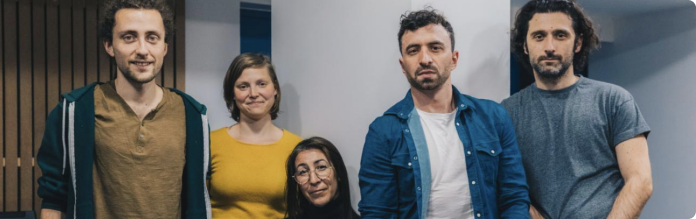
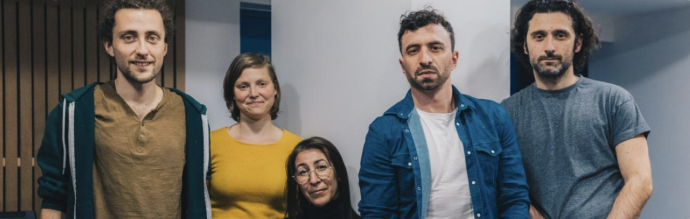
fix: - Changement de l'image - Modification du contraste du titre <h1> de l'accueil - Corrections indentation

diff --git a/pages/description.vue b/pages/description.vue
@@ -1,74 +1,76 @@
 <template>
-    <main class="main_box" role="main">
-        <img class="onde" src="/onde_deco.png" alt="">
-        <div class="description">
-            <img src="/qui_sommes_nous_2.png" alt="">
+  <main class="main_box" role="main">
+    <img class="onde" src="/onde_deco.png" alt="" />
+    <div class="description">
+      <img src="/qui_sommes_nous_2.png" alt="" />
 
-                <h1>Qui sommes-nous ?</h1>
+      <h1>Qui sommes-nous ?</h1>
 
-                <p>
-                    Une équipe française investie dans la création et la production de fictions sonores.<br>
-                    Une association fondée par Aurélien Bernadas, qui s’entoure de nombreuses personnes bénévoles pour accompagner le projet et le faire grandir.
-                </p>
+      <p>
+        Une équipe française investie dans la création et la production de fictions
+        sonores.<br />
+        Une association fondée par Aurélien Bernadas, qui s’entoure de nombreuses
+        personnes bénévoles pour accompagner le projet et le faire grandir.
+      </p>
 
-                <h2 class="blue_outline">Qu’est-ce qui nous fait vibrer ?</h2>
-                <p>
-                    Créer une œuvre accessible à tous, peu importe ses difficultés, son handicap, ses ressources financières…<br>
-                    Faire rêver, raconter des histoires, proposer un moment d’évasion.<br>
-                    Avancer en unissant nos énergies, nos compétences, nos différences, travailler en équipe, et être sur
-                    la même longueur d’onde
-                </p>
+      <h2 class="blue_outline">Qu’est-ce qui nous fait vibrer ?</h2>
+      <p>
+        Créer une œuvre accessible à tous, peu importe ses difficultés, son handicap, ses
+        ressources financières…<br />
+        Faire rêver, raconter des histoires, proposer un moment d’évasion.<br />
+        Avancer en unissant nos énergies, nos compétences, nos différences, travailler en
+        équipe, et être sur la même longueur d’onde
+      </p>
 
-                <h2 class="blue_outline">Pourquoi la fiction sonore ? </h2>
-                <p>
-                    Frequencies a choisi l’audio pour soutenir une idée forte: donner accès à tous aux fictions sonores
-                    et notamment aux personnes atteintes de déficiences visuelles.
-                </p>
+      <h2 class="blue_outline">Pourquoi la fiction sonore ?</h2>
+      <p>
+        Frequencies a choisi l’audio pour soutenir une idée forte: donner accès à tous aux
+        fictions sonores et notamment aux personnes atteintes de déficiences visuelles.
+      </p>
 
-                <h2 class="blue_outline">Une rencontre essentielle</h2>
-                <p>
-                    Aurélien a eu la chance d’entrer en contact avec Arthur, un jeune homme perdant la vue. Il lui dira pour
-                    commencer qu’il n’utilise pas l’audiodescription, ça le sort de l’histoire… Ça manque de vie !<br>
-                    Ils passeront deux ans à échanger sur comment faire une belle réalisation, proposer une histoire au plus
-                    grand nombre et adaptée aux personnes malvoyantes.<br>
-                    <br>
-                    C’est l’origine du projet !
-                </p>
-        </div>
-        <img class="onde" src="/onde_deco.png" alt="">
-    </main>
+      <h2 class="blue_outline">Une rencontre essentielle</h2>
+      <p>
+        Aurélien a eu la chance d’entrer en contact avec Arthur, un jeune homme perdant la
+        vue. Il lui dira pour commencer qu’il n’utilise pas l’audiodescription, ça le sort
+        de l’histoire… Ça manque de vie !<br />
+        Ils passeront deux ans à échanger sur comment faire une belle réalisation,
+        proposer une histoire au plus grand nombre et adaptée aux personnes
+        malvoyantes.<br />
+        <br />
+        C’est l’origine du projet !
+      </p>
+    </div>
+    <img class="onde" src="/onde_deco.png" alt="" />
+  </main>
 </template>
 
 <style scoped>
 .onde {
-    width: 100%;
-    object-fit: contain;
-    margin-bottom: 2vw;
+  width: 100%;
+  object-fit: contain;
+  margin-bottom: 2vw;
 }
 .description {
-    margin-left: 4vw;
-    margin-right: 4vw;
-    text-align: justify;
+  margin-left: 4vw;
+  margin-right: 4vw;
+  text-align: justify;
 }
 
 .description img {
-    float: left;
-    padding-right: 2vw;
+  float: left;
+  padding-right: 2vw;
 }
-
 </style>
 
 <script>
-import { defineComponent } from '@vue/composition-api'
+import { defineComponent } from "@vue/composition-api";
 
 export default defineComponent({
-    setup() {
-        
-    },
-    head() {
-        return {
-            title: "Qui sommes-nous ?"
-        };
-    }
-})
+  setup() {},
+  head() {
+    return {
+      title: "Qui sommes-nous ?",
+    };
+  },
+});
 </script>

diff --git a/components/Intro.vue b/components/Intro.vue
@@ -1,29 +1,41 @@
 <template>
-    <div class="intro">
-        <h1>Frequencies Production</h1>
-        <p>Création de fictions sonores inspirées pour des personnes malvoyantes à destination de tous</p>
-        <ul>
-            <li>
-                <a class="button--white" href="https://docs.google.com/forms/d/e/1FAIpQLSc9T5X5v1Ydinnh5OY0PR2RWsXEp_Ac5zkPIKZrpblGRT2S4g/viewform" target="blank">Devenir bénévole<span aria-label="ouvre un nouvel onglet"></span></a>
-            </li>
-            <li>
-                <a class="button--white">Devenir sponsor</a>
-            </li>
-        </ul>
-    </div>
+  <div class="intro">
+    <h1 class="h1-title">Frequencies Production</h1>
+    <p>
+      Création de fictions sonores inspirées pour des personnes malvoyantes à destination
+      de tous
+    </p>
+    <ul>
+      <li>
+        <a
+          class="button--white"
+          href="https://docs.google.com/forms/d/e/1FAIpQLSc9T5X5v1Ydinnh5OY0PR2RWsXEp_Ac5zkPIKZrpblGRT2S4g/viewform"
+          target="blank"
+          >Devenir bénévole<span aria-label="ouvre un nouvel onglet"></span
+        ></a>
+      </li>
+      <li>
+        <a class="button--white">Devenir sponsor</a>
+      </li>
+    </ul>
+  </div>
 </template>
 
 <style scoped>
 .intro {
-    color: #fff;
-    background-image: url("/image_accueil.png");
-    width: 100%;
-    height: 100%;
-    background-size: cover;
-    background-position: center;
-    background-repeat: no-repeat;
-    padding-top: 32%;
-    padding-bottom: 5%;
-    margin-bottom: 4vw;
+  color: #fff;
+  background-image: url("/image_accueil.png");
+  width: 100%;
+  height: 100%;
+  background-size: cover;
+  background-position: center;
+  background-repeat: no-repeat;
+  padding-top: 32%;
+  padding-bottom: 5%;
+  margin-bottom: 4vw;
+}
+
+.h1-title {
+  background-color: #000000;
 }
 </style>

diff --git a/components/Description.vue b/components/Description.vue
@@ -1,31 +1,34 @@
 <template>
-    <div class="description">
-        <img src="/qui_sommes_nous_1.png" alt="">
-        <h2 class="section_title">Qui sommes-nous ?</h2>
-        <p>
-            Une équipe française investie dans la création et la production de fictions sonores.<br>
-            Une association fondée par Aurélien Bernadas, qui s’entoure de nombreuses personnes bénévoles pour accompagner le projet et le faire grandir.
-        </p>
-    </div>
+  <div class="description">
+    <img src="/qui_sommes_nous_1.png" alt="" />
+    <h2 class="section_title">Qui sommes-nous ?</h2>
+    <p>
+      Une équipe française investie dans la création et la production de fictions
+      sonores.<br />
+      Une association fondée par Aurélien Bernadas, qui s’entoure de nombreuses personnes
+      bénévoles pour accompagner le projet et le faire grandir.
+    </p>
+  </div>
 </template>
 
 <style scoped>
 .description {
-    width: 100%;
-    margin-left: 5vw;
-    margin-right: 5vw;
-    margin-bottom: 5vw;
-    display: flex;
-    flex-direction: column;
+  width: 100%;
+  margin-left: 5vw;
+  margin-right: 5vw;
+  margin-bottom: 5vw;
+  display: flex;
+  flex-direction: column;
 }
 
 .description img {
-    width: 100%;
-    object-fit: contain;
+  width: 100%;
+  object-fit: contain;
+  border-radius: 0;
 }
 
 h2 {
-    margin-top: 2vw;
-    margin-bottom: 2vw;
+  margin-top: 2vw;
+  margin-bottom: 2vw;
 }
 </style>
